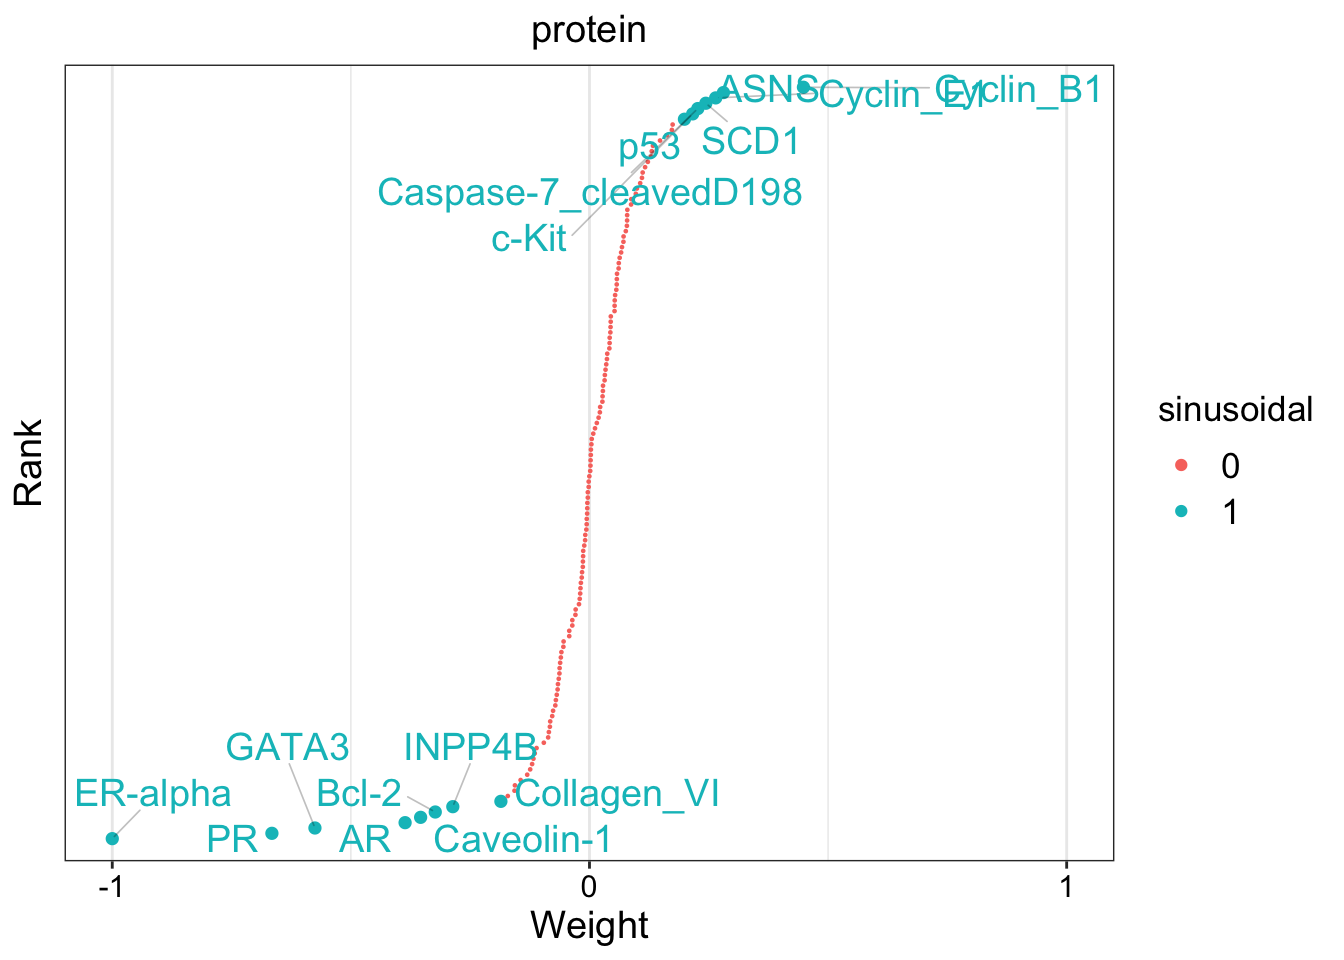
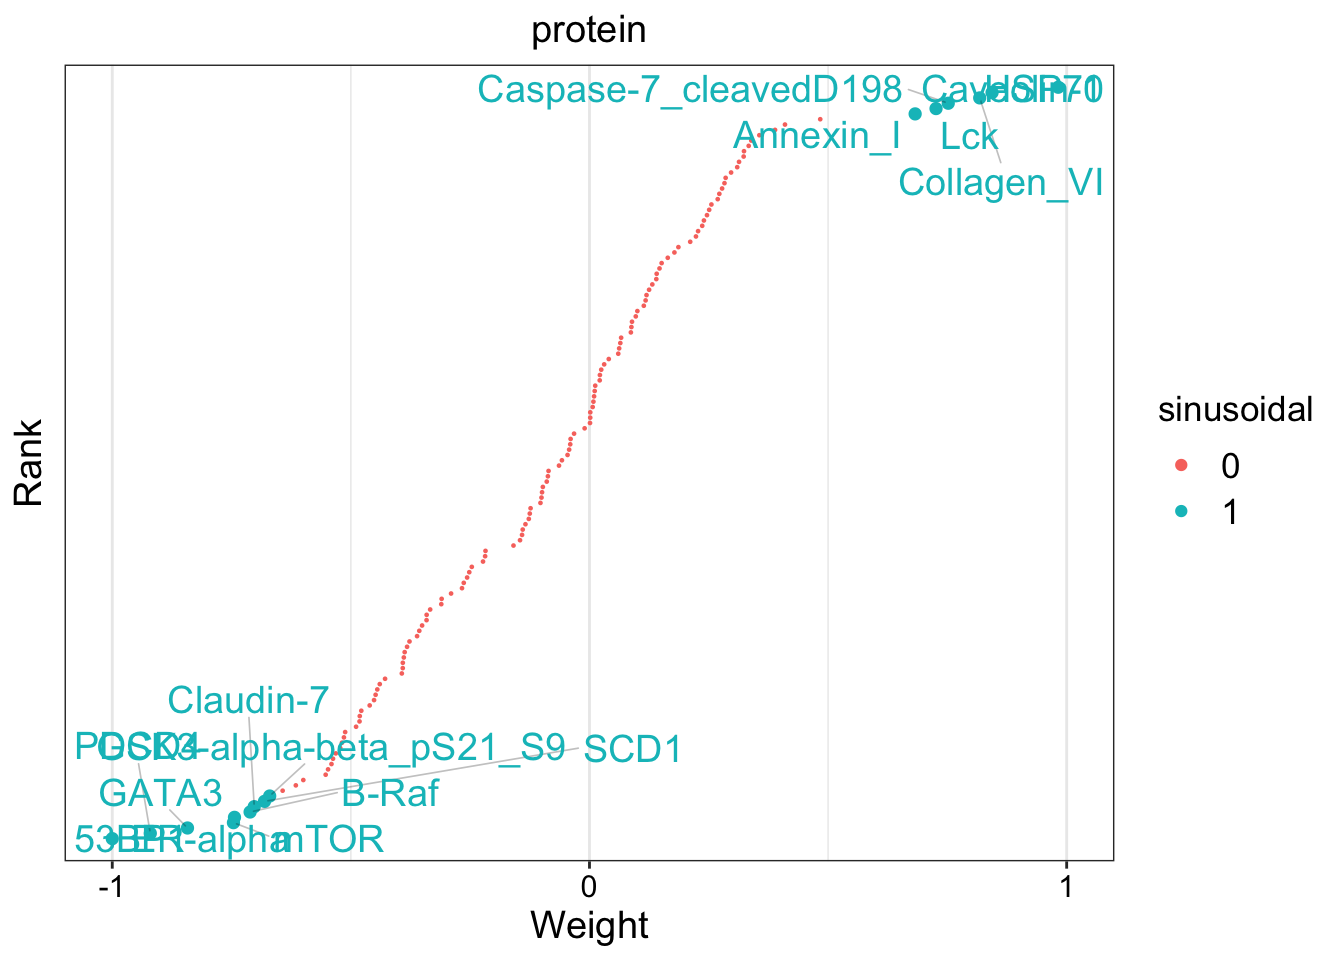
Built site for gh-pages

diff --git a/index.html b/index.html
@@ -559,7 +559,7 @@ X = X-T_x(X^TT_U(T^T_UT_U)^{-1})^T
 Y = Y-T_y(Y^TT_U(T^T_UT_U)^{-1})^T
 \]</span> The process is repeated to extract additional pairs of canonical variables.</p>
 <p>Let’s have a look at how we can derive this in R using miRNA and mRNA data</p>
-<div class="cell" data-hash="mofa_cache/html/unnamed-chunk-9_553c6709ae0d255fdf135b8db9732087">
+<div class="cell" data-hash="mofa_cache/html/unnamed-chunk-9_1e85f071d8c17c98b741ce9737a9c611">
 <div class="sourceCode cell-code" id="cb12"><pre class="sourceCode r code-with-copy"><code class="sourceCode r"><span id="cb12-1"><a href="#cb12-1" aria-hidden="true" tabindex="-1"></a><span class="co"># center both of the datasets</span></span>
 <span id="cb12-2"><a href="#cb12-2" aria-hidden="true" tabindex="-1"></a>X_centered <span class="ot">&lt;-</span> <span class="fu">scale</span>(breast.TCGA<span class="sc">$</span>data.train<span class="sc">$</span>mrna, <span class="at">scale =</span> <span class="cn">FALSE</span>)</span>
 <span id="cb12-3"><a href="#cb12-3" aria-hidden="true" tabindex="-1"></a>Y_centered <span class="ot">&lt;-</span> <span class="fu">scale</span>(breast.TCGA<span class="sc">$</span>data.train<span class="sc">$</span>protein, <span class="at">scale =</span> <span class="cn">FALSE</span>)</span>
@@ -596,7 +596,7 @@ Y = Y-T_y(Y^TT_U(T^T_UT_U)^{-1})^T
 <span id="cb12-34"><a href="#cb12-34" aria-hidden="true" tabindex="-1"></a>canonical_vars_Y2 <span class="ot">&lt;-</span> Y_centered <span class="sc">%*%</span> V</span>
 <span id="cb12-35"><a href="#cb12-35" aria-hidden="true" tabindex="-1"></a></span>
 <span id="cb12-36"><a href="#cb12-36" aria-hidden="true" tabindex="-1"></a><span class="fu">par</span>(<span class="at">mfrow=</span><span class="fu">c</span>(<span class="dv">2</span>,<span class="dv">2</span>))</span>
-<span id="cb12-37"><a href="#cb12-37" aria-hidden="true" tabindex="-1"></a><span class="fu">plot</span>(canonical_vars_X,canonical_vars_X2,<span class="at">col=</span>breast.TCGA<span class="sc">$</span>data.train<span class="sc">$</span>subtype,<span class="at">xlab=</span><span class="st">"l1"</span>,<span class="at">ylab=</span><span class="st">"l2"</span>,<span class="at">main=</span><span class="st">"CCA protein"</span>)</span>
+<span id="cb12-37"><a href="#cb12-37" aria-hidden="true" tabindex="-1"></a><span class="fu">plot</span>(canonical_vars_X,canonical_vars_X2,<span class="at">col=</span>breast.TCGA<span class="sc">$</span>data.train<span class="sc">$</span>subtype,<span class="at">xlab=</span><span class="st">"l1"</span>,<span class="at">ylab=</span><span class="st">"l2"</span>,<span class="at">main=</span><span class="st">"CCA mRNA"</span>)</span>
 <span id="cb12-38"><a href="#cb12-38" aria-hidden="true" tabindex="-1"></a><span class="fu">plot</span>(canonical_vars_Y,canonical_vars_Y2,<span class="at">col=</span>breast.TCGA<span class="sc">$</span>data.train<span class="sc">$</span>subtype,<span class="at">xlab=</span><span class="st">"l1"</span>,<span class="at">ylab=</span><span class="st">"l2"</span>,<span class="at">main=</span><span class="st">"CCA protein"</span>)</span>
 <span id="cb12-39"><a href="#cb12-39" aria-hidden="true" tabindex="-1"></a></span>
 <span id="cb12-40"><a href="#cb12-40" aria-hidden="true" tabindex="-1"></a><span class="fu">plot</span>(canonical_vars_X,canonical_vars_Y,<span class="at">col=</span>breast.TCGA<span class="sc">$</span>data.train<span class="sc">$</span>subtype,<span class="at">xlab=</span><span class="st">"mRNA"</span>,<span class="at">ylab=</span><span class="st">"protein"</span>,<span class="at">main=</span><span class="st">"l1"</span>)</span>
@@ -2021,20 +2021,20 @@ Saving model in /var/folders/kh/tgq9mmld6_v9z_h220trj0c40000gn/T//RtmpCXEvxb/mof
 <div>
 <div class="sourceCode cell-code" id="cb81"><pre class="sourceCode r code-with-copy"><code class="sourceCode r"><span id="cb81-1"><a href="#cb81-1" aria-hidden="true" tabindex="-1"></a><span class="co"># Plot the weights of the top 20 features for the third factor</span></span>
 <span id="cb81-2"><a href="#cb81-2" aria-hidden="true" tabindex="-1"></a></span>
-<span id="cb81-3"><a href="#cb81-3" aria-hidden="true" tabindex="-1"></a>color_mirna<span class="ot">=</span><span class="fu">data.frame</span>(<span class="at">feature=</span><span class="fu">rownames</span>(MOFAobject<span class="sc">@</span>data<span class="sc">$</span>mirna<span class="sc">$</span>group1),</span>
-<span id="cb81-4"><a href="#cb81-4" aria-hidden="true" tabindex="-1"></a>                       <span class="at">sinusoidal=</span><span class="fu">rep</span>(<span class="fu">c</span>(<span class="st">"Yes"</span>,<span class="st">"No"</span>),<span class="fu">c</span>(<span class="dv">20</span>,<span class="fu">nrow</span>(MOFAobject<span class="sc">@</span>data<span class="sc">$</span>mirna<span class="sc">$</span>group1)<span class="sc">-</span><span class="dv">20</span>)),</span>
+<span id="cb81-3"><a href="#cb81-3" aria-hidden="true" tabindex="-1"></a>color_mirna<span class="ot">=</span><span class="fu">data.frame</span>(<span class="at">feature=</span><span class="fu">rownames</span>(sm<span class="sc">@</span>data<span class="sc">$</span>mirna<span class="sc">$</span>group1),</span>
+<span id="cb81-4"><a href="#cb81-4" aria-hidden="true" tabindex="-1"></a>                       <span class="at">sinusoidal=</span><span class="fu">rep</span>(<span class="fu">c</span>(<span class="st">"Yes"</span>,<span class="st">"No"</span>),<span class="fu">c</span>(<span class="dv">20</span>,<span class="fu">nrow</span>(sm<span class="sc">@</span>data<span class="sc">$</span>mirna<span class="sc">$</span>group1)<span class="sc">-</span><span class="dv">20</span>)),</span>
 <span id="cb81-5"><a href="#cb81-5" aria-hidden="true" tabindex="-1"></a>                       <span class="at">view=</span><span class="st">"mirna"</span>)</span>
-<span id="cb81-6"><a href="#cb81-6" aria-hidden="true" tabindex="-1"></a>color_mrna<span class="ot">=</span><span class="fu">data.frame</span>(<span class="at">feature=</span><span class="fu">rownames</span>(MOFAobject<span class="sc">@</span>data<span class="sc">$</span>mrna<span class="sc">$</span>group1),</span>
-<span id="cb81-7"><a href="#cb81-7" aria-hidden="true" tabindex="-1"></a>                      <span class="at">sinusoidal=</span><span class="fu">rep</span>(<span class="fu">c</span>(<span class="st">"Yes"</span>,<span class="st">"No"</span>),<span class="fu">c</span>(<span class="dv">25</span>,<span class="fu">nrow</span>(MOFAobject<span class="sc">@</span>data<span class="sc">$</span>mrna<span class="sc">$</span>group1)<span class="sc">-</span><span class="dv">25</span>)),</span>
+<span id="cb81-6"><a href="#cb81-6" aria-hidden="true" tabindex="-1"></a>color_mrna<span class="ot">=</span><span class="fu">data.frame</span>(<span class="at">feature=</span><span class="fu">rownames</span>(sm<span class="sc">@</span>data<span class="sc">$</span>mrna<span class="sc">$</span>group1),</span>
+<span id="cb81-7"><a href="#cb81-7" aria-hidden="true" tabindex="-1"></a>                      <span class="at">sinusoidal=</span><span class="fu">rep</span>(<span class="fu">c</span>(<span class="st">"Yes"</span>,<span class="st">"No"</span>),<span class="fu">c</span>(<span class="dv">25</span>,<span class="fu">nrow</span>(sm<span class="sc">@</span>data<span class="sc">$</span>mrna<span class="sc">$</span>group1)<span class="sc">-</span><span class="dv">25</span>)),</span>
 <span id="cb81-8"><a href="#cb81-8" aria-hidden="true" tabindex="-1"></a>                      <span class="at">view=</span><span class="st">"mrna"</span>)</span>
-<span id="cb81-9"><a href="#cb81-9" aria-hidden="true" tabindex="-1"></a>color_protein<span class="ot">=</span><span class="fu">data.frame</span>(<span class="at">feature=</span><span class="fu">rownames</span>(MOFAobject<span class="sc">@</span>data<span class="sc">$</span>protein<span class="sc">$</span>group1),<span class="at">sinusoidal=</span><span class="fu">rep</span>(<span class="fu">c</span>(<span class="st">"Yes"</span>,<span class="st">"No"</span>),<span class="fu">c</span>(<span class="dv">15</span>,<span class="fu">nrow</span>(MOFAobject<span class="sc">@</span>data<span class="sc">$</span>protein<span class="sc">$</span>group1)<span class="sc">-</span><span class="dv">15</span>)),<span class="at">view=</span><span class="st">"protein"</span>)</span>
+<span id="cb81-9"><a href="#cb81-9" aria-hidden="true" tabindex="-1"></a>color_protein<span class="ot">=</span><span class="fu">data.frame</span>(<span class="at">feature=</span><span class="fu">rownames</span>(sm<span class="sc">@</span>data<span class="sc">$</span>protein<span class="sc">$</span>group1),<span class="at">sinusoidal=</span><span class="fu">rep</span>(<span class="fu">c</span>(<span class="st">"Yes"</span>,<span class="st">"No"</span>),<span class="fu">c</span>(<span class="dv">15</span>,<span class="fu">nrow</span>(sm<span class="sc">@</span>data<span class="sc">$</span>protein<span class="sc">$</span>group1)<span class="sc">-</span><span class="dv">15</span>)),<span class="at">view=</span><span class="st">"protein"</span>)</span>
 <span id="cb81-10"><a href="#cb81-10" aria-hidden="true" tabindex="-1"></a></span>
 <span id="cb81-11"><a href="#cb81-11" aria-hidden="true" tabindex="-1"></a><span class="fu">features_metadata</span>(sm)<span class="ot">&lt;-</span><span class="fu">rbind</span>(color_mirna,color_mrna,color_protein)</span>
 <span id="cb81-12"><a href="#cb81-12" aria-hidden="true" tabindex="-1"></a><span class="fu">library</span>(ggplot2)</span>
-<span id="cb81-13"><a href="#cb81-13" aria-hidden="true" tabindex="-1"></a><span class="fu">plot_weights</span>(sm, <span class="at">factors =</span> <span class="dv">1</span>, <span class="at">view =</span> <span class="st">"mirna"</span>, <span class="at">nfeatures =</span> <span class="dv">20</span>,<span class="at">color_by =</span> <span class="st">"sinusoidal"</span>)<span class="sc">+</span><span class="fu">ggtitle</span>(<span class="st">"miRNA"</span>)</span>
-<span id="cb81-14"><a href="#cb81-14" aria-hidden="true" tabindex="-1"></a><span class="fu">plot_weights</span>(sm, <span class="at">factors =</span> <span class="dv">1</span>, <span class="at">view =</span> <span class="st">"mrna"</span>, <span class="at">nfeatures =</span> <span class="dv">25</span>,<span class="at">color_by =</span> <span class="st">"sinusoidal"</span>)<span class="sc">+</span><span class="fu">ggtitle</span>(<span class="st">"mRNA"</span>)</span>
-<span id="cb81-15"><a href="#cb81-15" aria-hidden="true" tabindex="-1"></a><span class="fu">plot_weights</span>(sm, <span class="at">factors =</span> <span class="dv">1</span>, <span class="at">view =</span> <span class="st">"protein"</span>, <span class="at">nfeatures =</span> <span class="dv">15</span>,<span class="at">color_by =</span> <span class="st">"sinusoidal"</span>)<span class="sc">+</span><span class="fu">ggtitle</span>(<span class="st">"protein"</span>)</span></code><button title="Copy to Clipboard" class="code-copy-button"><i class="bi"></i></button></pre></div>
-<div class="cell quarto-layout-panel" data-hash="mofa_cache/html/unnamed-chunk-36_96e288ab96dadd262db7ca41a9de3168">
+<span id="cb81-13"><a href="#cb81-13" aria-hidden="true" tabindex="-1"></a><span class="fu">plot_weights</span>(sm, <span class="at">factors =</span> <span class="dv">3</span>, <span class="at">view =</span> <span class="st">"mirna"</span>, <span class="at">nfeatures =</span> <span class="dv">20</span>,<span class="at">color_by =</span> <span class="st">"sinusoidal"</span>)<span class="sc">+</span><span class="fu">ggtitle</span>(<span class="st">"miRNA"</span>)</span>
+<span id="cb81-14"><a href="#cb81-14" aria-hidden="true" tabindex="-1"></a><span class="fu">plot_weights</span>(sm, <span class="at">factors =</span> <span class="dv">3</span>, <span class="at">view =</span> <span class="st">"mrna"</span>, <span class="at">nfeatures =</span> <span class="dv">25</span>,<span class="at">color_by =</span> <span class="st">"sinusoidal"</span>)<span class="sc">+</span><span class="fu">ggtitle</span>(<span class="st">"mRNA"</span>)</span>
+<span id="cb81-15"><a href="#cb81-15" aria-hidden="true" tabindex="-1"></a><span class="fu">plot_weights</span>(sm, <span class="at">factors =</span> <span class="dv">3</span>, <span class="at">view =</span> <span class="st">"protein"</span>, <span class="at">nfeatures =</span> <span class="dv">15</span>,<span class="at">color_by =</span> <span class="st">"sinusoidal"</span>)<span class="sc">+</span><span class="fu">ggtitle</span>(<span class="st">"protein"</span>)</span></code><button title="Copy to Clipboard" class="code-copy-button"><i class="bi"></i></button></pre></div>
+<div class="cell quarto-layout-panel" data-hash="mofa_cache/html/unnamed-chunk-36_c7b34cb39e63f7734ac4bbdcc9c3127e">
 <div class="quarto-layout-row quarto-layout-valign-top">
 <div class="cell-output-display quarto-layout-cell" style="flex-basis: 33.3%;justify-content: center;">
 <p><img src="mofa_files/figure-html/unnamed-chunk-36-1.png" class="img-fluid" width="672"></p>

diff --git a/mofa.html b/mofa.html
@@ -559,7 +559,7 @@ X = X-T_x(X^TT_U(T^T_UT_U)^{-1})^T
 Y = Y-T_y(Y^TT_U(T^T_UT_U)^{-1})^T
 \]</span> The process is repeated to extract additional pairs of canonical variables.</p>
 <p>Let’s have a look at how we can derive this in R using miRNA and mRNA data</p>
-<div class="cell" data-hash="mofa_cache/html/unnamed-chunk-9_553c6709ae0d255fdf135b8db9732087">
+<div class="cell" data-hash="mofa_cache/html/unnamed-chunk-9_1e85f071d8c17c98b741ce9737a9c611">
 <div class="sourceCode cell-code" id="cb12"><pre class="sourceCode r code-with-copy"><code class="sourceCode r"><span id="cb12-1"><a href="#cb12-1" aria-hidden="true" tabindex="-1"></a><span class="co"># center both of the datasets</span></span>
 <span id="cb12-2"><a href="#cb12-2" aria-hidden="true" tabindex="-1"></a>X_centered <span class="ot">&lt;-</span> <span class="fu">scale</span>(breast.TCGA<span class="sc">$</span>data.train<span class="sc">$</span>mrna, <span class="at">scale =</span> <span class="cn">FALSE</span>)</span>
 <span id="cb12-3"><a href="#cb12-3" aria-hidden="true" tabindex="-1"></a>Y_centered <span class="ot">&lt;-</span> <span class="fu">scale</span>(breast.TCGA<span class="sc">$</span>data.train<span class="sc">$</span>protein, <span class="at">scale =</span> <span class="cn">FALSE</span>)</span>
@@ -596,7 +596,7 @@ Y = Y-T_y(Y^TT_U(T^T_UT_U)^{-1})^T
 <span id="cb12-34"><a href="#cb12-34" aria-hidden="true" tabindex="-1"></a>canonical_vars_Y2 <span class="ot">&lt;-</span> Y_centered <span class="sc">%*%</span> V</span>
 <span id="cb12-35"><a href="#cb12-35" aria-hidden="true" tabindex="-1"></a></span>
 <span id="cb12-36"><a href="#cb12-36" aria-hidden="true" tabindex="-1"></a><span class="fu">par</span>(<span class="at">mfrow=</span><span class="fu">c</span>(<span class="dv">2</span>,<span class="dv">2</span>))</span>
-<span id="cb12-37"><a href="#cb12-37" aria-hidden="true" tabindex="-1"></a><span class="fu">plot</span>(canonical_vars_X,canonical_vars_X2,<span class="at">col=</span>breast.TCGA<span class="sc">$</span>data.train<span class="sc">$</span>subtype,<span class="at">xlab=</span><span class="st">"l1"</span>,<span class="at">ylab=</span><span class="st">"l2"</span>,<span class="at">main=</span><span class="st">"CCA protein"</span>)</span>
+<span id="cb12-37"><a href="#cb12-37" aria-hidden="true" tabindex="-1"></a><span class="fu">plot</span>(canonical_vars_X,canonical_vars_X2,<span class="at">col=</span>breast.TCGA<span class="sc">$</span>data.train<span class="sc">$</span>subtype,<span class="at">xlab=</span><span class="st">"l1"</span>,<span class="at">ylab=</span><span class="st">"l2"</span>,<span class="at">main=</span><span class="st">"CCA mRNA"</span>)</span>
 <span id="cb12-38"><a href="#cb12-38" aria-hidden="true" tabindex="-1"></a><span class="fu">plot</span>(canonical_vars_Y,canonical_vars_Y2,<span class="at">col=</span>breast.TCGA<span class="sc">$</span>data.train<span class="sc">$</span>subtype,<span class="at">xlab=</span><span class="st">"l1"</span>,<span class="at">ylab=</span><span class="st">"l2"</span>,<span class="at">main=</span><span class="st">"CCA protein"</span>)</span>
 <span id="cb12-39"><a href="#cb12-39" aria-hidden="true" tabindex="-1"></a></span>
 <span id="cb12-40"><a href="#cb12-40" aria-hidden="true" tabindex="-1"></a><span class="fu">plot</span>(canonical_vars_X,canonical_vars_Y,<span class="at">col=</span>breast.TCGA<span class="sc">$</span>data.train<span class="sc">$</span>subtype,<span class="at">xlab=</span><span class="st">"mRNA"</span>,<span class="at">ylab=</span><span class="st">"protein"</span>,<span class="at">main=</span><span class="st">"l1"</span>)</span>
@@ -2021,20 +2021,20 @@ Saving model in /var/folders/kh/tgq9mmld6_v9z_h220trj0c40000gn/T//RtmpCXEvxb/mof
 <div>
 <div class="sourceCode cell-code" id="cb81"><pre class="sourceCode r code-with-copy"><code class="sourceCode r"><span id="cb81-1"><a href="#cb81-1" aria-hidden="true" tabindex="-1"></a><span class="co"># Plot the weights of the top 20 features for the third factor</span></span>
 <span id="cb81-2"><a href="#cb81-2" aria-hidden="true" tabindex="-1"></a></span>
-<span id="cb81-3"><a href="#cb81-3" aria-hidden="true" tabindex="-1"></a>color_mirna<span class="ot">=</span><span class="fu">data.frame</span>(<span class="at">feature=</span><span class="fu">rownames</span>(MOFAobject<span class="sc">@</span>data<span class="sc">$</span>mirna<span class="sc">$</span>group1),</span>
-<span id="cb81-4"><a href="#cb81-4" aria-hidden="true" tabindex="-1"></a>                       <span class="at">sinusoidal=</span><span class="fu">rep</span>(<span class="fu">c</span>(<span class="st">"Yes"</span>,<span class="st">"No"</span>),<span class="fu">c</span>(<span class="dv">20</span>,<span class="fu">nrow</span>(MOFAobject<span class="sc">@</span>data<span class="sc">$</span>mirna<span class="sc">$</span>group1)<span class="sc">-</span><span class="dv">20</span>)),</span>
+<span id="cb81-3"><a href="#cb81-3" aria-hidden="true" tabindex="-1"></a>color_mirna<span class="ot">=</span><span class="fu">data.frame</span>(<span class="at">feature=</span><span class="fu">rownames</span>(sm<span class="sc">@</span>data<span class="sc">$</span>mirna<span class="sc">$</span>group1),</span>
+<span id="cb81-4"><a href="#cb81-4" aria-hidden="true" tabindex="-1"></a>                       <span class="at">sinusoidal=</span><span class="fu">rep</span>(<span class="fu">c</span>(<span class="st">"Yes"</span>,<span class="st">"No"</span>),<span class="fu">c</span>(<span class="dv">20</span>,<span class="fu">nrow</span>(sm<span class="sc">@</span>data<span class="sc">$</span>mirna<span class="sc">$</span>group1)<span class="sc">-</span><span class="dv">20</span>)),</span>
 <span id="cb81-5"><a href="#cb81-5" aria-hidden="true" tabindex="-1"></a>                       <span class="at">view=</span><span class="st">"mirna"</span>)</span>
-<span id="cb81-6"><a href="#cb81-6" aria-hidden="true" tabindex="-1"></a>color_mrna<span class="ot">=</span><span class="fu">data.frame</span>(<span class="at">feature=</span><span class="fu">rownames</span>(MOFAobject<span class="sc">@</span>data<span class="sc">$</span>mrna<span class="sc">$</span>group1),</span>
-<span id="cb81-7"><a href="#cb81-7" aria-hidden="true" tabindex="-1"></a>                      <span class="at">sinusoidal=</span><span class="fu">rep</span>(<span class="fu">c</span>(<span class="st">"Yes"</span>,<span class="st">"No"</span>),<span class="fu">c</span>(<span class="dv">25</span>,<span class="fu">nrow</span>(MOFAobject<span class="sc">@</span>data<span class="sc">$</span>mrna<span class="sc">$</span>group1)<span class="sc">-</span><span class="dv">25</span>)),</span>
+<span id="cb81-6"><a href="#cb81-6" aria-hidden="true" tabindex="-1"></a>color_mrna<span class="ot">=</span><span class="fu">data.frame</span>(<span class="at">feature=</span><span class="fu">rownames</span>(sm<span class="sc">@</span>data<span class="sc">$</span>mrna<span class="sc">$</span>group1),</span>
+<span id="cb81-7"><a href="#cb81-7" aria-hidden="true" tabindex="-1"></a>                      <span class="at">sinusoidal=</span><span class="fu">rep</span>(<span class="fu">c</span>(<span class="st">"Yes"</span>,<span class="st">"No"</span>),<span class="fu">c</span>(<span class="dv">25</span>,<span class="fu">nrow</span>(sm<span class="sc">@</span>data<span class="sc">$</span>mrna<span class="sc">$</span>group1)<span class="sc">-</span><span class="dv">25</span>)),</span>
 <span id="cb81-8"><a href="#cb81-8" aria-hidden="true" tabindex="-1"></a>                      <span class="at">view=</span><span class="st">"mrna"</span>)</span>
-<span id="cb81-9"><a href="#cb81-9" aria-hidden="true" tabindex="-1"></a>color_protein<span class="ot">=</span><span class="fu">data.frame</span>(<span class="at">feature=</span><span class="fu">rownames</span>(MOFAobject<span class="sc">@</span>data<span class="sc">$</span>protein<span class="sc">$</span>group1),<span class="at">sinusoidal=</span><span class="fu">rep</span>(<span class="fu">c</span>(<span class="st">"Yes"</span>,<span class="st">"No"</span>),<span class="fu">c</span>(<span class="dv">15</span>,<span class="fu">nrow</span>(MOFAobject<span class="sc">@</span>data<span class="sc">$</span>protein<span class="sc">$</span>group1)<span class="sc">-</span><span class="dv">15</span>)),<span class="at">view=</span><span class="st">"protein"</span>)</span>
+<span id="cb81-9"><a href="#cb81-9" aria-hidden="true" tabindex="-1"></a>color_protein<span class="ot">=</span><span class="fu">data.frame</span>(<span class="at">feature=</span><span class="fu">rownames</span>(sm<span class="sc">@</span>data<span class="sc">$</span>protein<span class="sc">$</span>group1),<span class="at">sinusoidal=</span><span class="fu">rep</span>(<span class="fu">c</span>(<span class="st">"Yes"</span>,<span class="st">"No"</span>),<span class="fu">c</span>(<span class="dv">15</span>,<span class="fu">nrow</span>(sm<span class="sc">@</span>data<span class="sc">$</span>protein<span class="sc">$</span>group1)<span class="sc">-</span><span class="dv">15</span>)),<span class="at">view=</span><span class="st">"protein"</span>)</span>
 <span id="cb81-10"><a href="#cb81-10" aria-hidden="true" tabindex="-1"></a></span>
 <span id="cb81-11"><a href="#cb81-11" aria-hidden="true" tabindex="-1"></a><span class="fu">features_metadata</span>(sm)<span class="ot">&lt;-</span><span class="fu">rbind</span>(color_mirna,color_mrna,color_protein)</span>
 <span id="cb81-12"><a href="#cb81-12" aria-hidden="true" tabindex="-1"></a><span class="fu">library</span>(ggplot2)</span>
-<span id="cb81-13"><a href="#cb81-13" aria-hidden="true" tabindex="-1"></a><span class="fu">plot_weights</span>(sm, <span class="at">factors =</span> <span class="dv">1</span>, <span class="at">view =</span> <span class="st">"mirna"</span>, <span class="at">nfeatures =</span> <span class="dv">20</span>,<span class="at">color_by =</span> <span class="st">"sinusoidal"</span>)<span class="sc">+</span><span class="fu">ggtitle</span>(<span class="st">"miRNA"</span>)</span>
-<span id="cb81-14"><a href="#cb81-14" aria-hidden="true" tabindex="-1"></a><span class="fu">plot_weights</span>(sm, <span class="at">factors =</span> <span class="dv">1</span>, <span class="at">view =</span> <span class="st">"mrna"</span>, <span class="at">nfeatures =</span> <span class="dv">25</span>,<span class="at">color_by =</span> <span class="st">"sinusoidal"</span>)<span class="sc">+</span><span class="fu">ggtitle</span>(<span class="st">"mRNA"</span>)</span>
-<span id="cb81-15"><a href="#cb81-15" aria-hidden="true" tabindex="-1"></a><span class="fu">plot_weights</span>(sm, <span class="at">factors =</span> <span class="dv">1</span>, <span class="at">view =</span> <span class="st">"protein"</span>, <span class="at">nfeatures =</span> <span class="dv">15</span>,<span class="at">color_by =</span> <span class="st">"sinusoidal"</span>)<span class="sc">+</span><span class="fu">ggtitle</span>(<span class="st">"protein"</span>)</span></code><button title="Copy to Clipboard" class="code-copy-button"><i class="bi"></i></button></pre></div>
-<div class="cell quarto-layout-panel" data-hash="mofa_cache/html/unnamed-chunk-36_96e288ab96dadd262db7ca41a9de3168">
+<span id="cb81-13"><a href="#cb81-13" aria-hidden="true" tabindex="-1"></a><span class="fu">plot_weights</span>(sm, <span class="at">factors =</span> <span class="dv">3</span>, <span class="at">view =</span> <span class="st">"mirna"</span>, <span class="at">nfeatures =</span> <span class="dv">20</span>,<span class="at">color_by =</span> <span class="st">"sinusoidal"</span>)<span class="sc">+</span><span class="fu">ggtitle</span>(<span class="st">"miRNA"</span>)</span>
+<span id="cb81-14"><a href="#cb81-14" aria-hidden="true" tabindex="-1"></a><span class="fu">plot_weights</span>(sm, <span class="at">factors =</span> <span class="dv">3</span>, <span class="at">view =</span> <span class="st">"mrna"</span>, <span class="at">nfeatures =</span> <span class="dv">25</span>,<span class="at">color_by =</span> <span class="st">"sinusoidal"</span>)<span class="sc">+</span><span class="fu">ggtitle</span>(<span class="st">"mRNA"</span>)</span>
+<span id="cb81-15"><a href="#cb81-15" aria-hidden="true" tabindex="-1"></a><span class="fu">plot_weights</span>(sm, <span class="at">factors =</span> <span class="dv">3</span>, <span class="at">view =</span> <span class="st">"protein"</span>, <span class="at">nfeatures =</span> <span class="dv">15</span>,<span class="at">color_by =</span> <span class="st">"sinusoidal"</span>)<span class="sc">+</span><span class="fu">ggtitle</span>(<span class="st">"protein"</span>)</span></code><button title="Copy to Clipboard" class="code-copy-button"><i class="bi"></i></button></pre></div>
+<div class="cell quarto-layout-panel" data-hash="mofa_cache/html/unnamed-chunk-36_c7b34cb39e63f7734ac4bbdcc9c3127e">
 <div class="quarto-layout-row quarto-layout-valign-top">
 <div class="cell-output-display quarto-layout-cell" style="flex-basis: 33.3%;justify-content: center;">
 <p><img src="mofa_files/figure-html/unnamed-chunk-36-1.png" class="img-fluid" width="672"></p>
